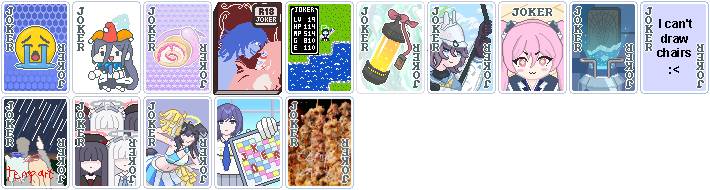
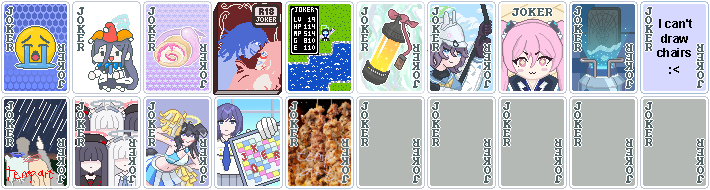
Add placeholder sprites to atlas

Changed region(s): [[0.4958, 0.5, 1.0, 1.0], [0.7127, 0.3947, 0.8056, 0.4737]]

diff --git a/gen_atlas.py b/gen_atlas.py
@@ -2,26 +2,34 @@ from PIL import Image
 import os
 
 
-def create_atlas(input_dir, output_path, width, height, columns):
+def create_atlas(input_dir, output_path, width, height, columns, empty_path):
     images = sorted(os.listdir(input_dir))
     rows = (len(images) + columns - 1) // columns
     new_image = Image.new("RGBA", (width * columns, height * rows), (250, 250, 250, 0))
 
     for i, img_file in enumerate(images):
         img_path = os.path.join(input_dir, img_file)
+        if img_path == empty_path:
+            continue
         img = Image.open(img_path).resize((width, height))
         row = i // columns
         col = i % columns
         new_image.paste(img, (col * width, row * height))
+
+    empty = Image.open(empty_path).resize((width, height))
+    for j in range(i, rows * columns):
+        row = j // columns
+        col = j % columns
+        new_image.paste(empty, (col * width, row * height))
 
     new_image.save(output_path, "PNG")
 
 
 if __name__ == "__main__":
     atlases = [
-        # input_dir, output_path, width, height, columns
-        ("art/1x", "assets/1x/jokers.png", 71, 95, 10),
-        ("art/2x", "assets/2x/jokers.png", 142, 190, 10),
+        # input_dir, output_path, width, height, columns, empty
+        ("art/1x", "assets/1x/jokers.png", 71, 95, 10, "art/1x/1x_empty.png"),
+        ("art/2x", "assets/2x/jokers.png", 142, 190, 10, "art/2x/2x_empty.png"),
     ]
 
     for atlas in atlases:
